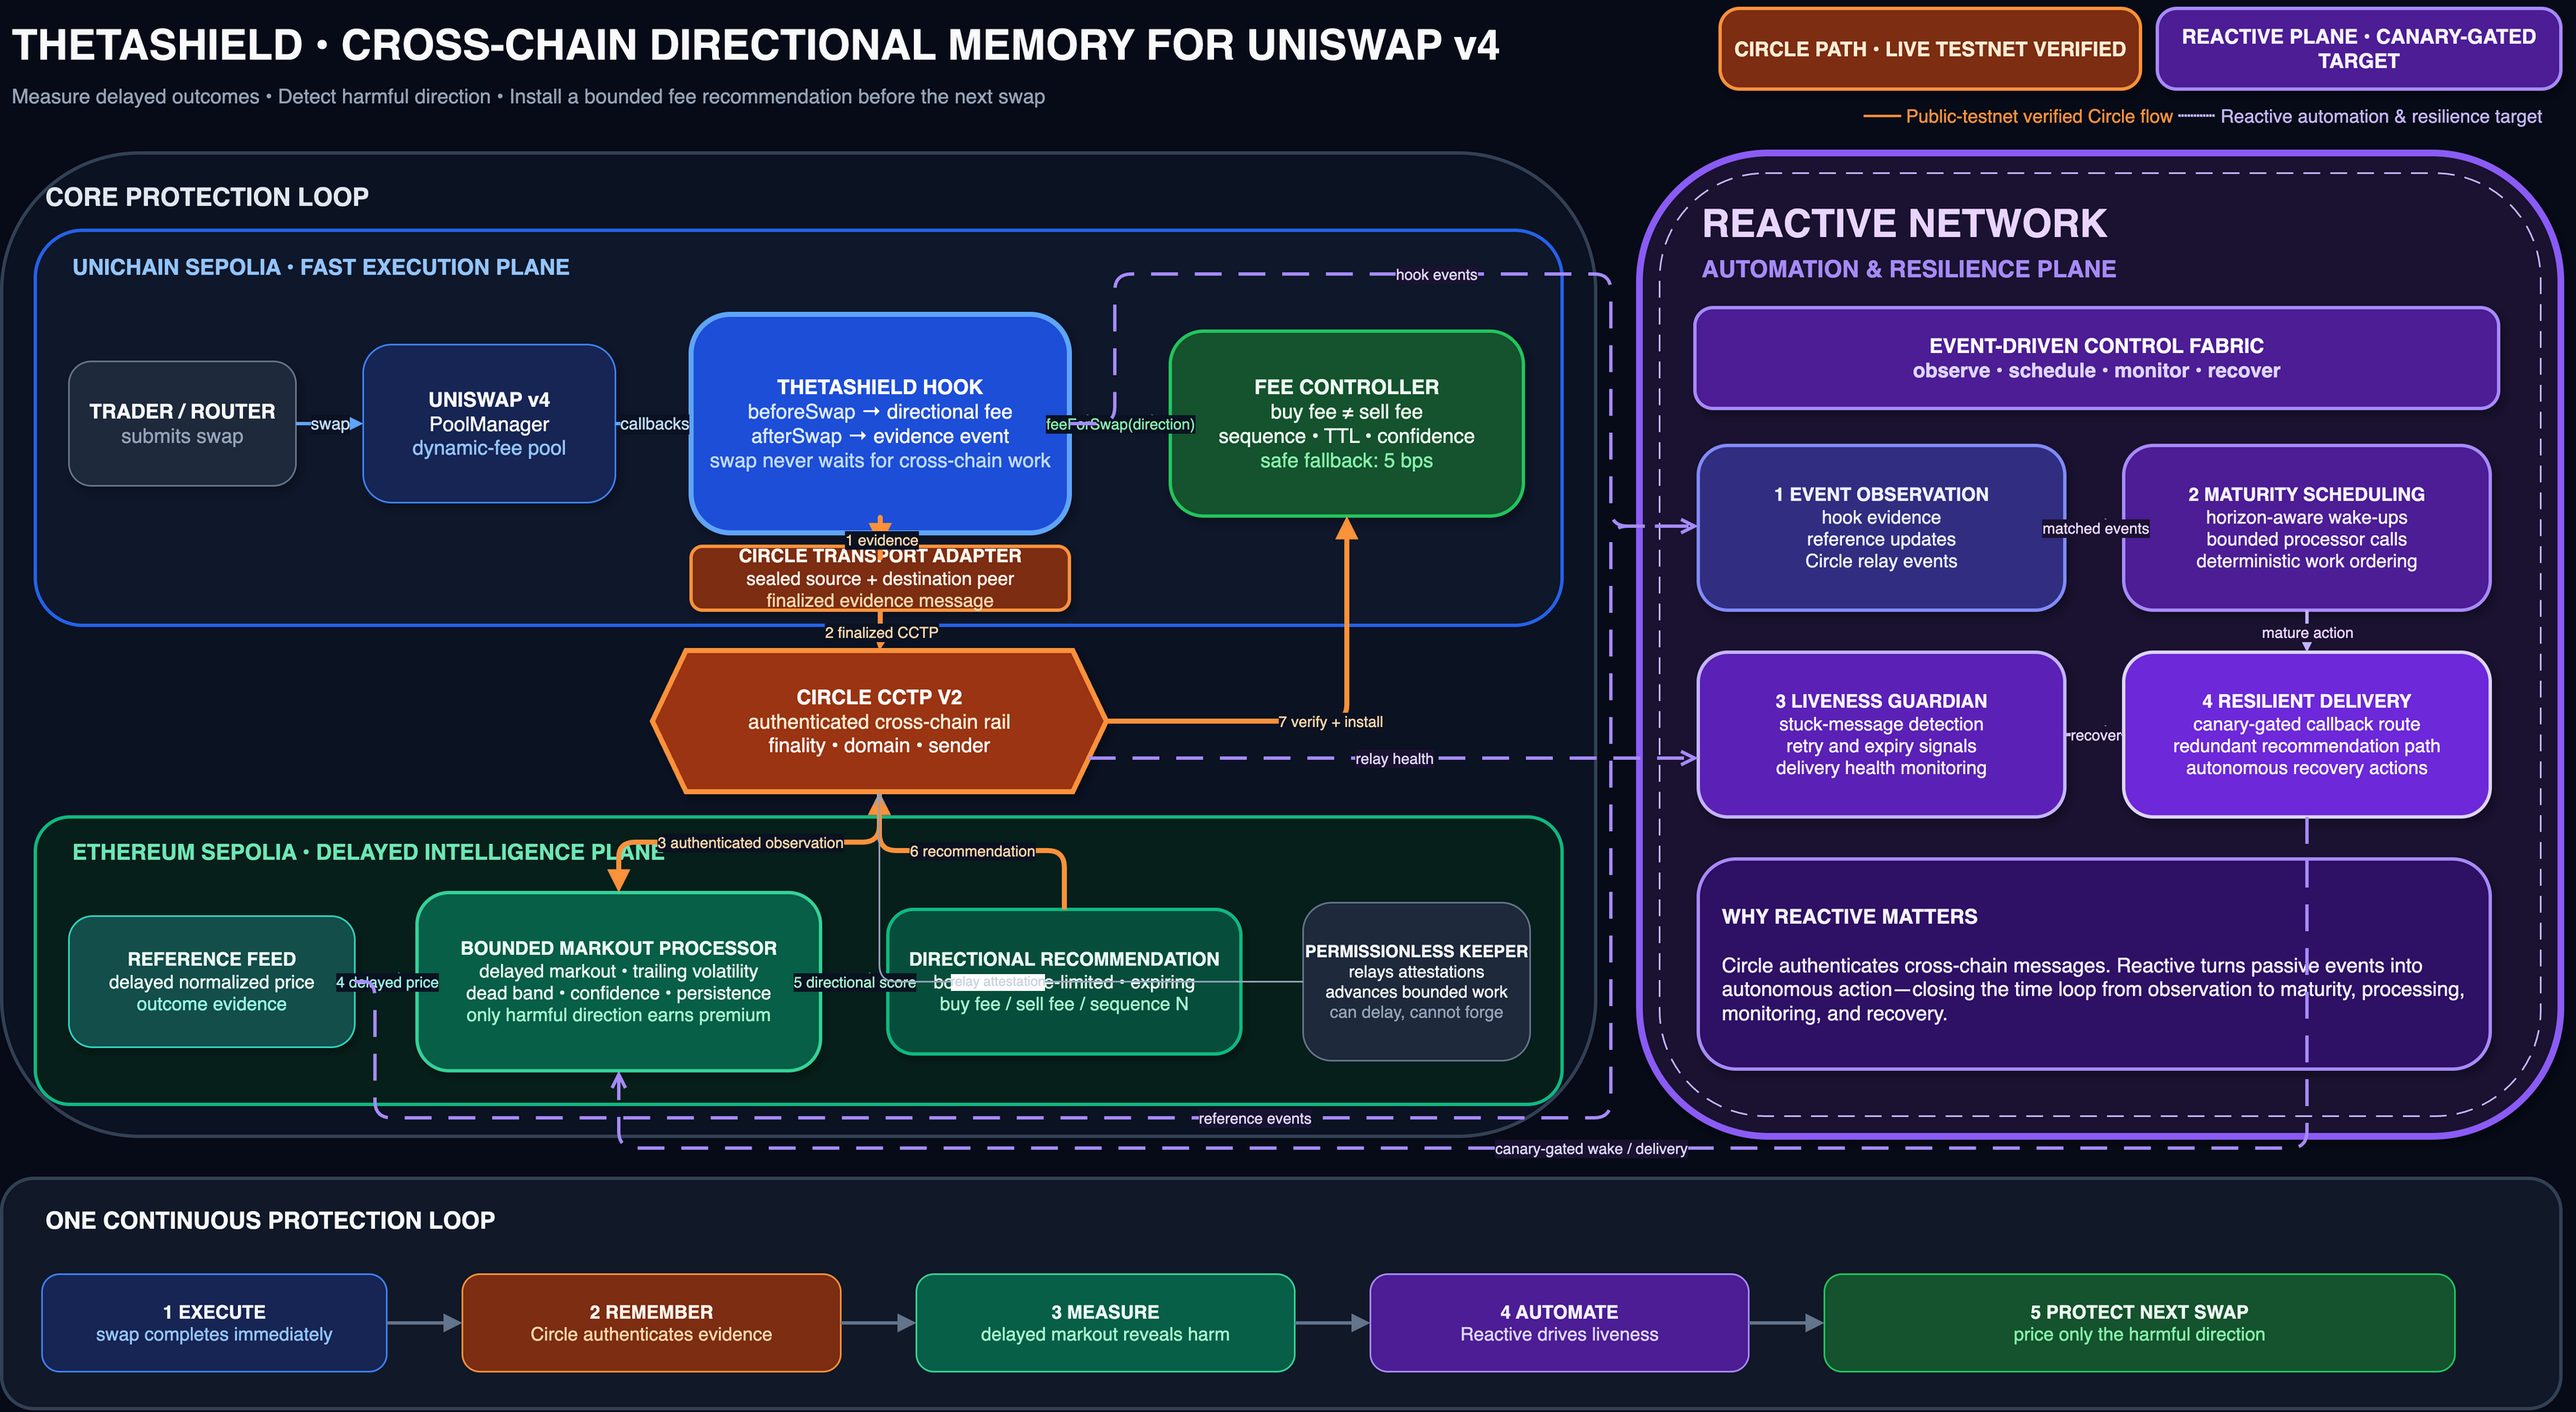
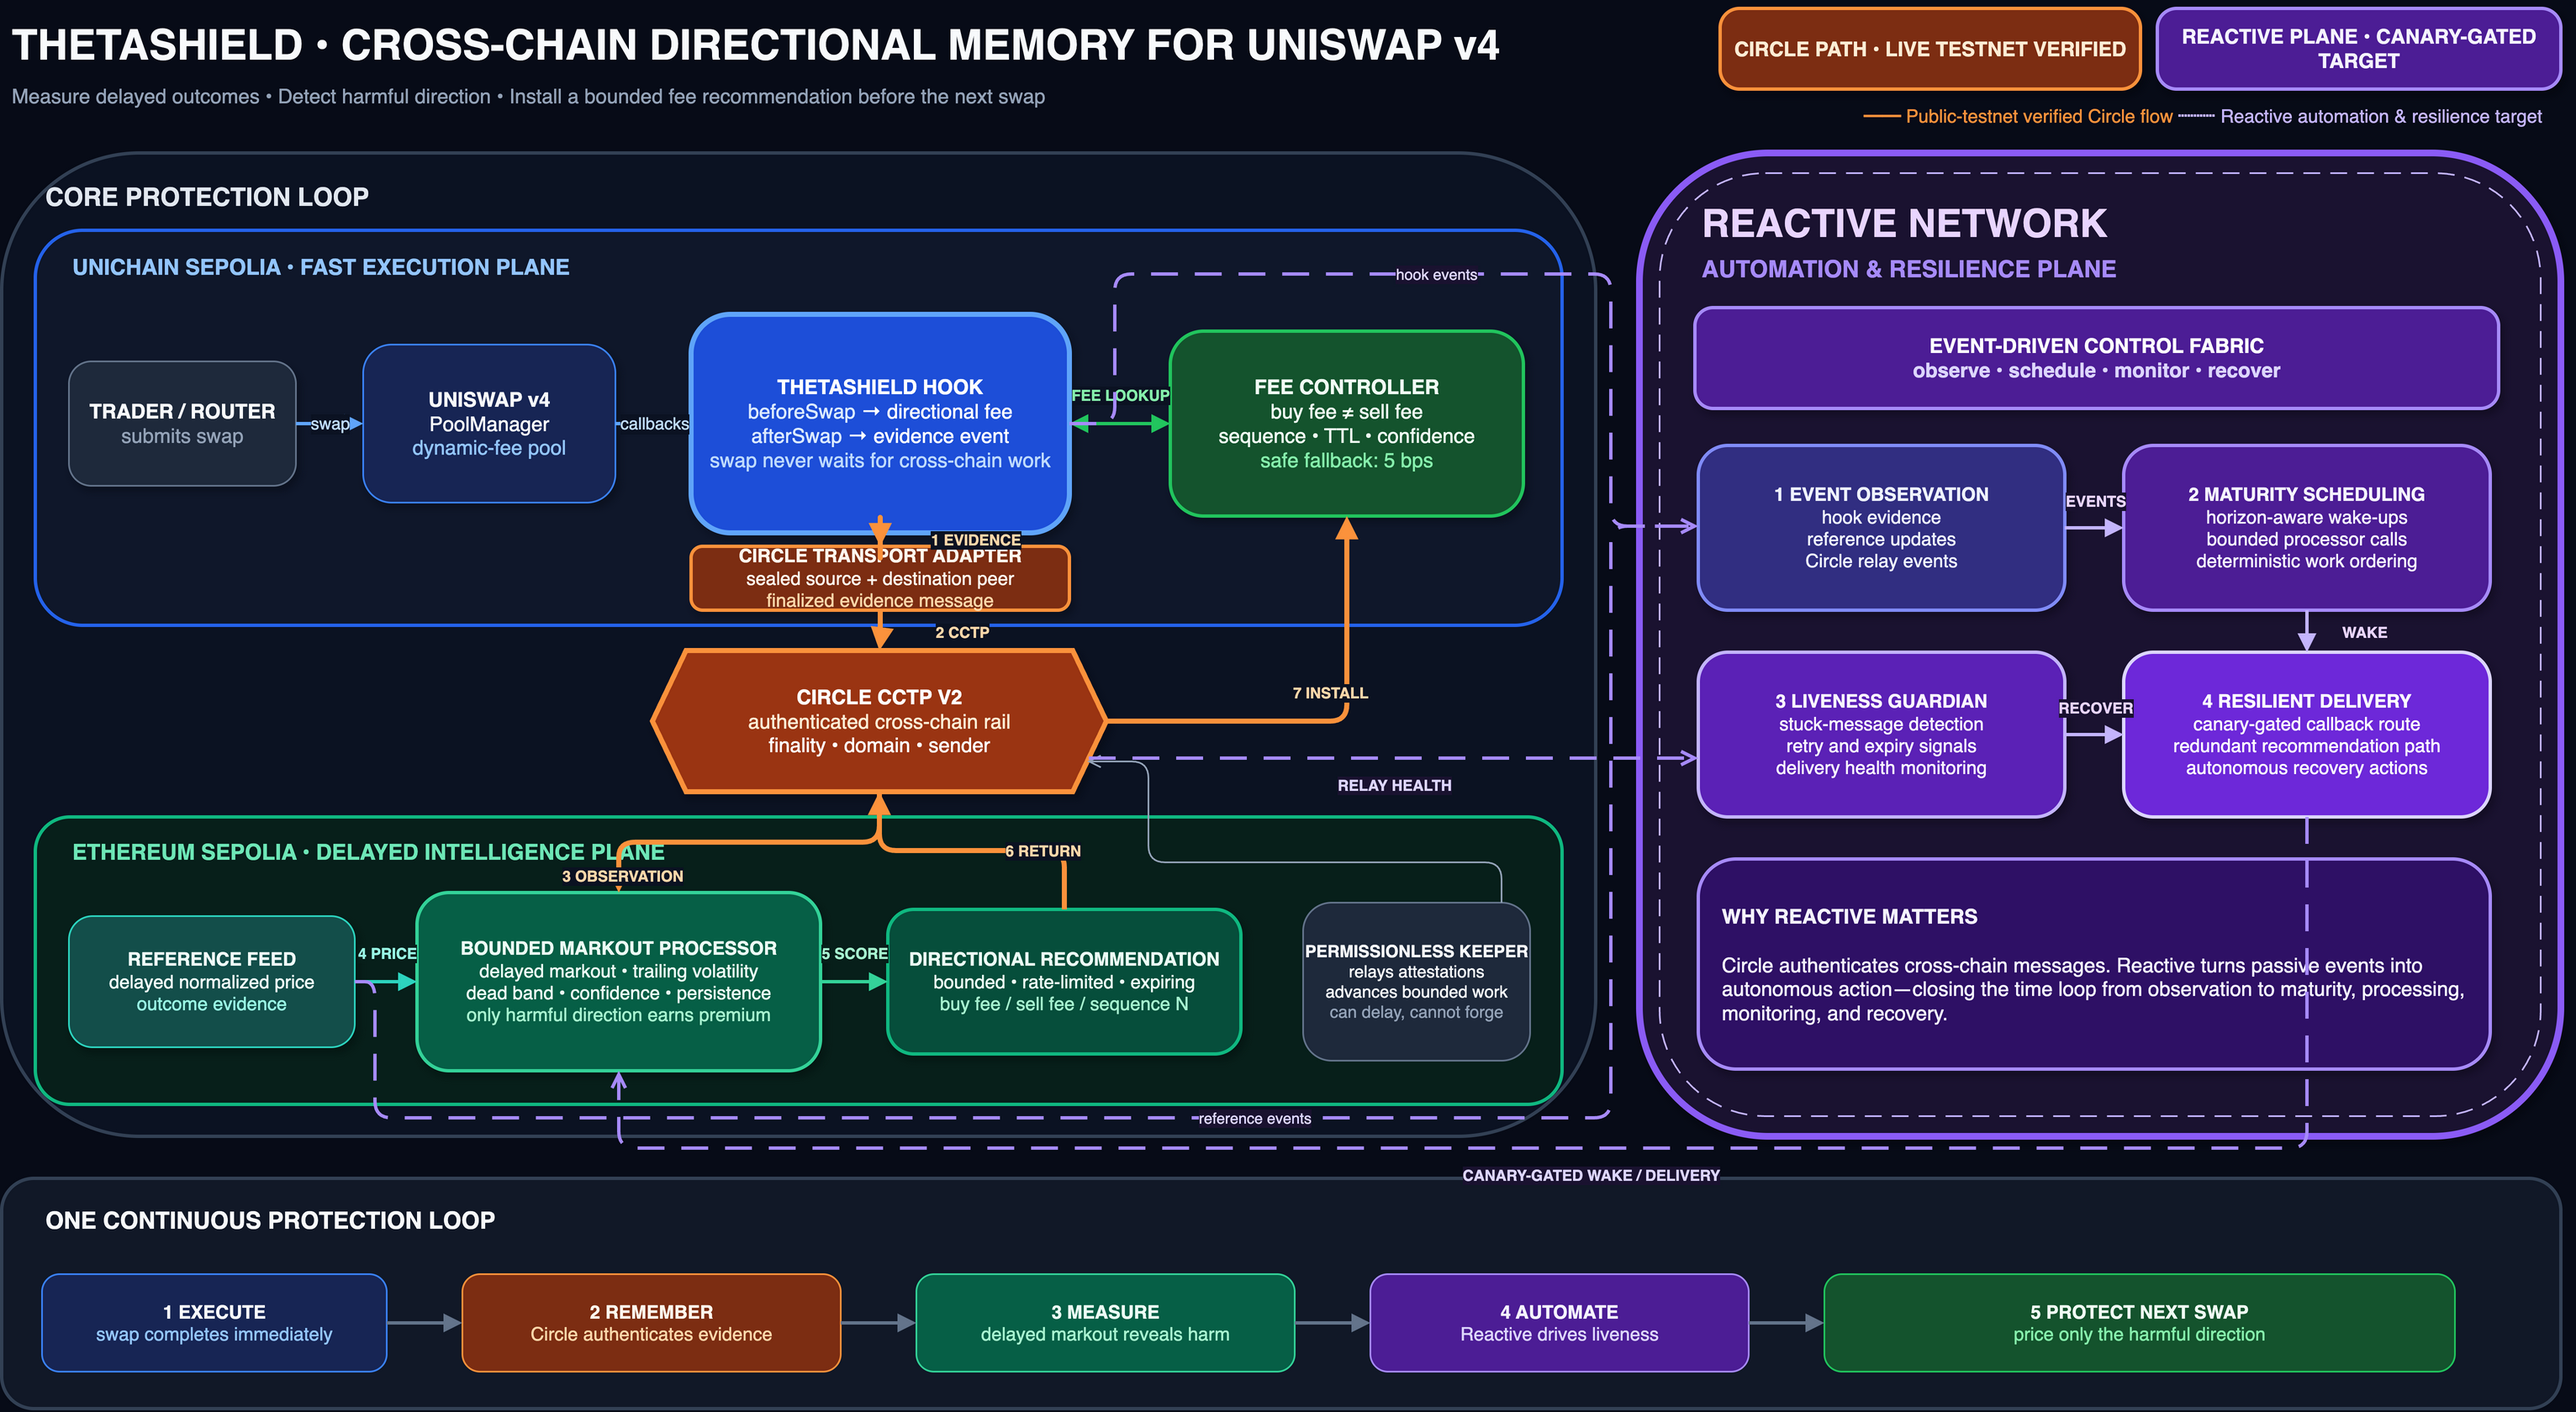
docs: add detailed architecture four diagram

diff --git a/README.md b/README.md
@@ -249,6 +249,7 @@ The interactive signal-lab cards are explicitly simulated. The separate **Live T
 | [Architecture](docs/ARCHITECTURE.md) | Component responsibilities, message lifecycle, and failure behavior |
 | [Editable draw.io architecture](docs/THETASHIELD_ARCHITECTURE.drawio) | Presentation-ready system diagram |
 | [Video architecture](docs/THETASHIELD_VIDEO_ARCHITECTURE.drawio) | Editable 16:9 diagram with a dedicated Reactive automation and resilience plane |
+| [Detailed Architecture 4](docs/THETASHIELD_ARCHITECTURE4.drawio) | Editable component map with frontend, chain boundaries, Circle transport, and a dedicated Reactive control plane |
 | [Mathematical specification](docs/MATHEMATICAL_SPECIFICATION.md) | Units, formulas, rounding, confidence, and persistence |
 | [Threat model](docs/THREAT_MODEL.md) | Trust boundaries, attack surfaces, controls, and residual risks |
 | [Verification guide](docs/VERIFICATION.md) | Whole-repository and focused verification gates |

diff --git a/docs/TEAMMATE_HANDOVER_VIDEO.md b/docs/TEAMMATE_HANDOVER_VIDEO.md
@@ -14,11 +14,12 @@ Open these tabs in order:
 
 1. [`README.md`](../README.md)
 2. [ThetaShield dashboard](https://theta-shield.vercel.app)
-3. [Video architecture](THETASHIELD_VIDEO_ARCHITECTURE.png)
-4. [`docs/PHASE8D_HANDOFF.md`](PHASE8D_HANDOFF.md)
-5. [`deployments/unichain-sepolia-ethereum-sepolia-circle-phase8d-live.json`](../deployments/unichain-sepolia-ethereum-sepolia-circle-phase8d-live.json)
-6. The repository tree in an editor
-7. A terminal at the repository root
+3. [Detailed Architecture 4](THETASHIELD_ARCHITECTURE4.png)
+4. [Simplified video architecture](THETASHIELD_VIDEO_ARCHITECTURE.png)
+5. [`docs/PHASE8D_HANDOFF.md`](PHASE8D_HANDOFF.md)
+6. [`deployments/unichain-sepolia-ethereum-sepolia-circle-phase8d-live.json`](../deployments/unichain-sepolia-ethereum-sepolia-circle-phase8d-live.json)
+7. The repository tree in an editor
+8. A terminal at the repository root
 
 Before pressing record:
 
